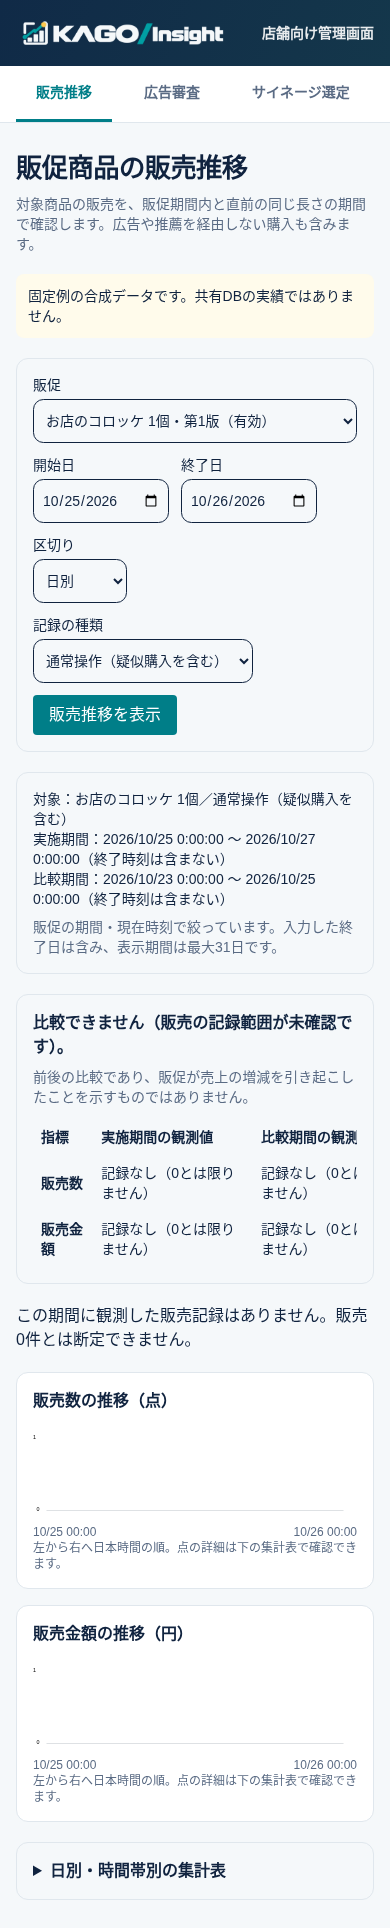
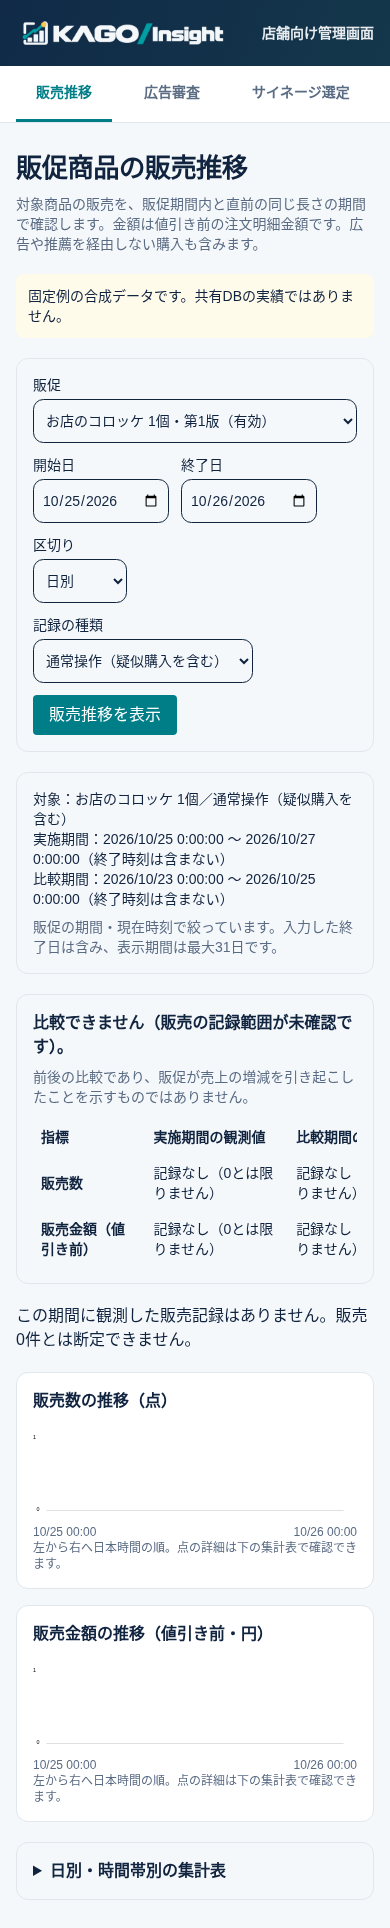
fix: 販売推移の金額が値引き前であることを明示 #83

diff --git a/kago-os/kago-insight/src/app/sales/page.tsx b/kago-os/kago-insight/src/app/sales/page.tsx
@@ -31,7 +31,7 @@ export default async function Page({
               unit: "点",
             },
             {
-              label: "販売金額",
+              label: "販売金額（値引き前）",
               current: current.amount,
               previous: previous.amount,
               unit: "円",
@@ -43,7 +43,7 @@ export default async function Page({
       <div>
         <h1 className="text-2xl font-bold">販促商品の販売推移</h1>
         <p className="mt-2 text-sm text-[var(--muted)]">
-          対象商品の販売を、販促期間内と直前の同じ長さの期間で確認します。広告や推薦を経由しない購入も含みます。
+          対象商品の販売を、販促期間内と直前の同じ長さの期間で確認します。金額は値引き前の注文明細金額です。広告や推薦を経由しない購入も含みます。
         </p>
       </div>
       {data.mock && (
@@ -228,7 +228,7 @@ export default async function Page({
             <SalesChart
               points={current.points}
               metric="amount"
-              title="販売金額の推移（円）"
+              title="販売金額の推移（値引き前・円）"
             />
           </div>
           <details className="rounded-xl border border-[var(--line)] p-4">

diff --git a/docs/development/ins08-sales-trends.md b/docs/development/ins08-sales-trends.md
@@ -54,3 +54,5 @@ product_idsを省略するとその店舗・由来の全商品を保証するた
 ## 残る運用上の条件
 
 実データでの増減表示には、実際に記録が無欠落である範囲の確認が必要。今回それを未確認のまま比較可能へ切り替えてはいない。販促の因果効果、天候や季節差の統制、販売経路の切り分けはこのIssueの範囲外。
+
+金額表示の補足：既存RPCはunit_price×quantityであり、注文の割引額を控除しない。INS-05と同じく、画面でも「値引き前」と明記した。
